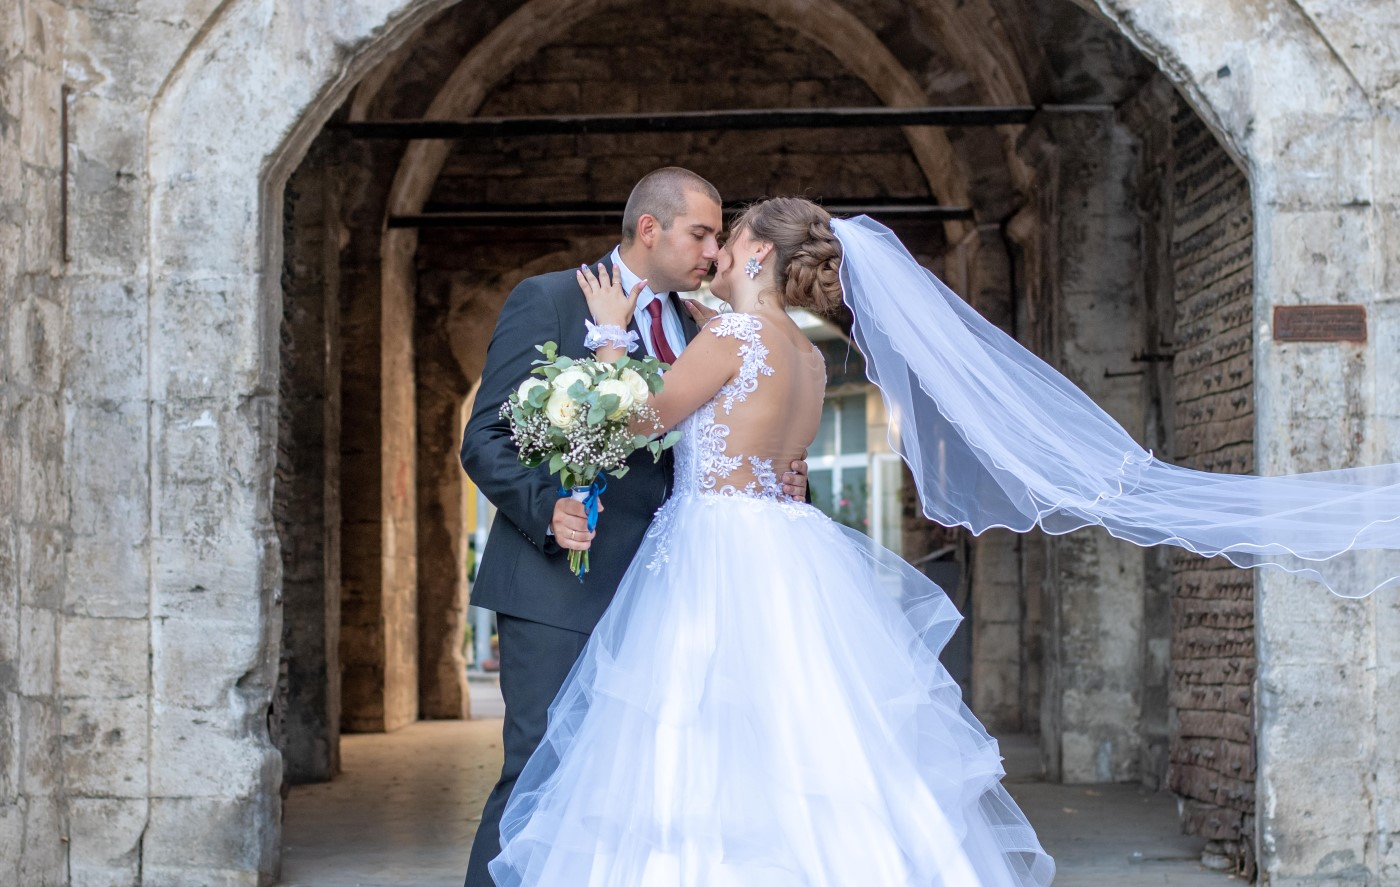
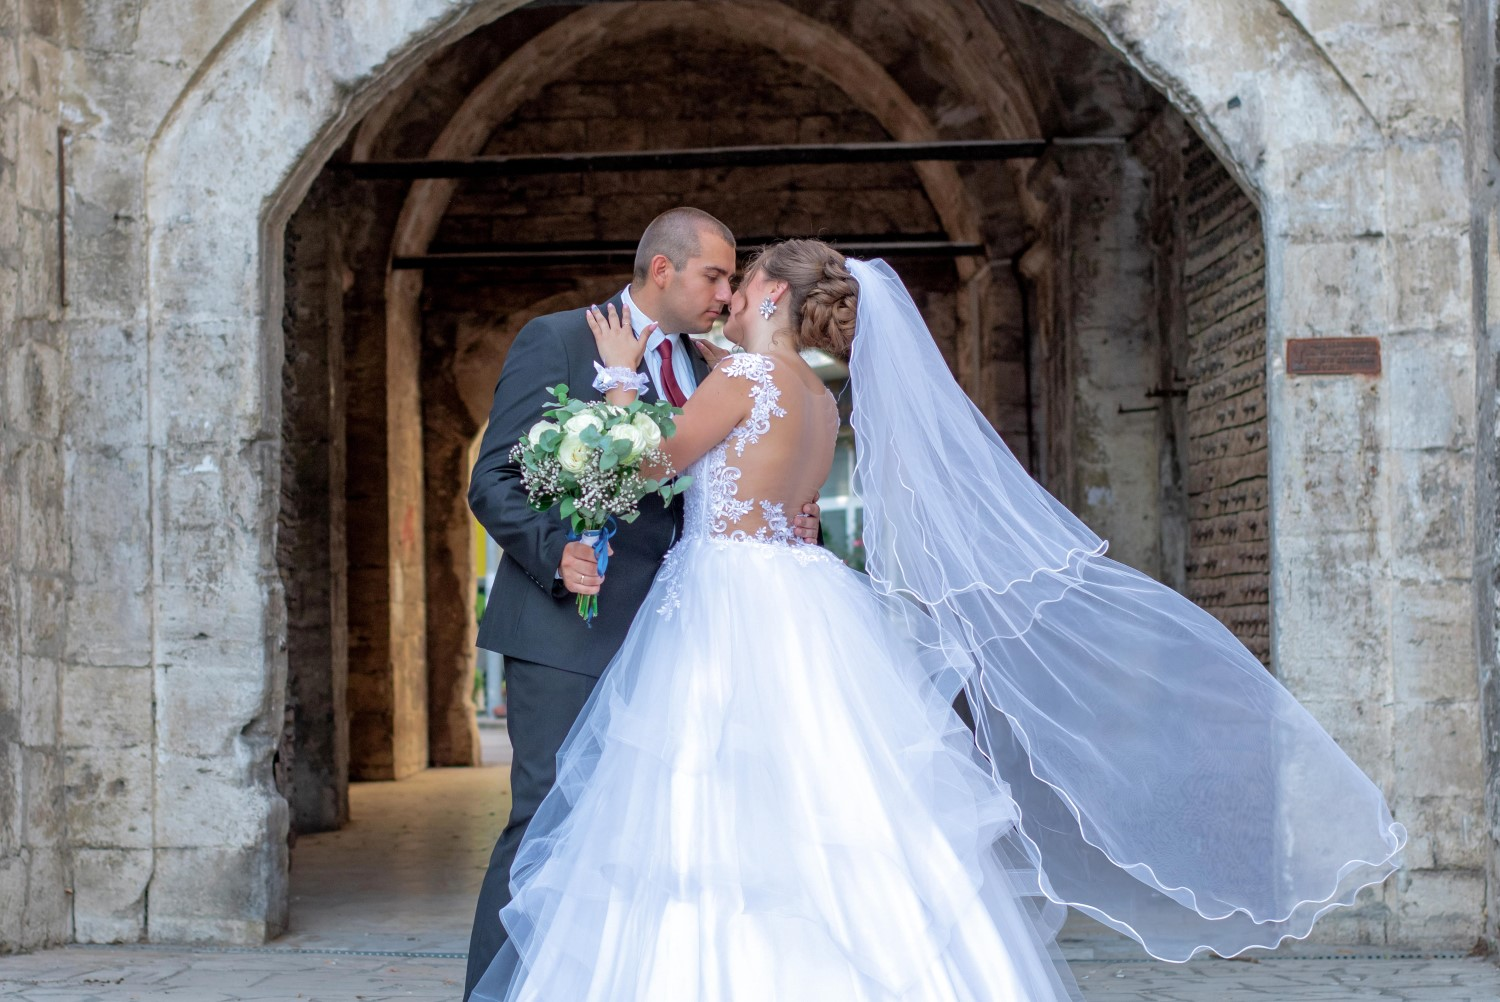
Pictures in Vanesa and Stanislav's wedding added and changed.

diff --git a/src/app/portfolio/wedding/vanesa-stanislav-gallery/vanesa-stanislav-gallery.component.html b/src/app/portfolio/wedding/vanesa-stanislav-gallery/vanesa-stanislav-gallery.component.html
@@ -19,6 +19,19 @@
     <img id="18" src="assets/portfolio/vanesa-stanislav-wedding/18.jpg" class="img" alt="asd">
     <img id="19" src="assets/portfolio/vanesa-stanislav-wedding/19.jpg" class="img" alt="asd">
     <img id="20" src="assets/portfolio/vanesa-stanislav-wedding/20.jpg" class="img" alt="asd">
+    <img id="21" src="assets/portfolio/vanesa-stanislav-wedding/21.jpg" class="img" alt="asd">
+    <img id="22" src="assets/portfolio/vanesa-stanislav-wedding/22.jpg" class="img" alt="asd">
+    <img id="23" src="assets/portfolio/vanesa-stanislav-wedding/23.jpg" class="img" alt="asd">
+    <img id="24" src="assets/portfolio/vanesa-stanislav-wedding/24.jpg" class="img" alt="asd">
+    <img id="25" src="assets/portfolio/vanesa-stanislav-wedding/25.jpg" class="img" alt="asd">
+    <img id="26" src="assets/portfolio/vanesa-stanislav-wedding/26.jpg" class="img" alt="asd">
+    <img id="27" src="assets/portfolio/vanesa-stanislav-wedding/27.jpg" class="img" alt="asd">
+    <img id="28" src="assets/portfolio/vanesa-stanislav-wedding/28.jpg" class="img" alt="asd">
+    <img id="29" src="assets/portfolio/vanesa-stanislav-wedding/29.jpg" class="img" alt="asd">
+    <img id="30" src="assets/portfolio/vanesa-stanislav-wedding/30.jpg" class="img" alt="asd">
+    <img id="31" src="assets/portfolio/vanesa-stanislav-wedding/31.jpg" class="img" alt="asd">
+    <img id="32" src="assets/portfolio/vanesa-stanislav-wedding/32.jpg" class="img" alt="asd">
+    <img id="33" src="assets/portfolio/vanesa-stanislav-wedding/33.jpg" class="img" alt="asd">
 </div>
 
 <div class="popup-image" id="popup-image-div">

diff --git a/src/app/portfolio/wedding/vanesa-stanislav-gallery/vanesa-stanislav-gallery.component.ts b/src/app/portfolio/wedding/vanesa-stanislav-gallery/vanesa-stanislav-gallery.component.ts
@@ -8,7 +8,7 @@ import { Component, OnInit } from '@angular/core';
 export class VanesaStanislavGalleryComponent implements OnInit {
 
   public id: number = 1;
-  public maxId: number = 20;
+  public maxId: number = 33;
 
   constructor() { }
 
